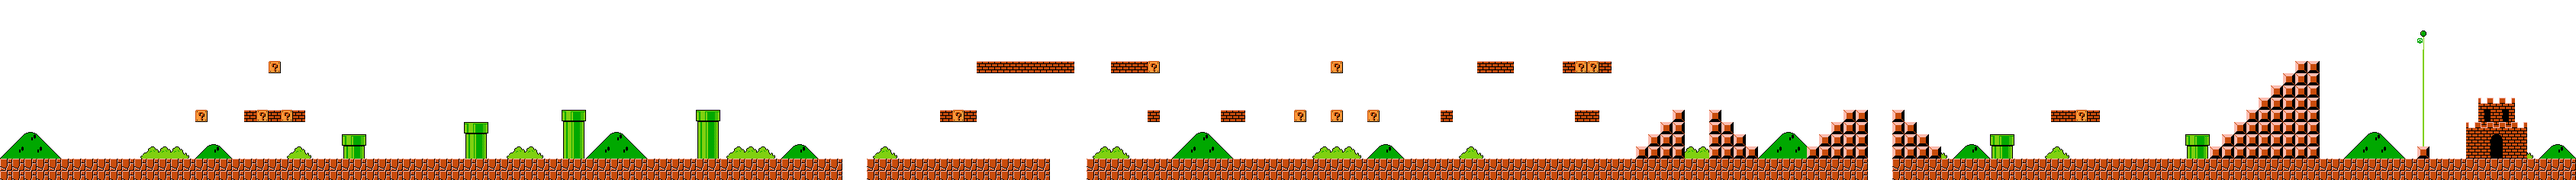
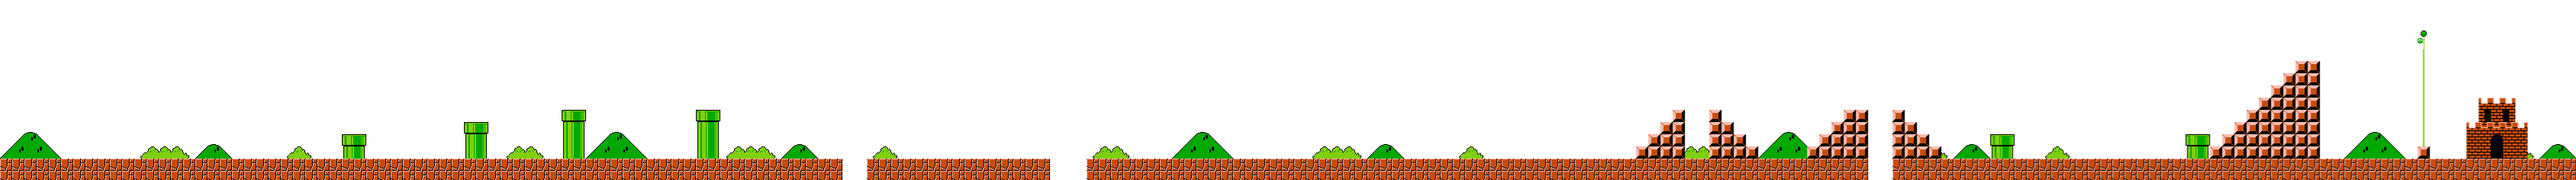
점프로 벽돌 블럭 없애기

diff --git a/winapi project/character.cpp b/winapi project/character.cpp
@@ -51,11 +51,11 @@ void character_move(Character* character, Map* map, int dx, int dy) {
     int new_x = character->x + dx;
     float new_y = character->y + dy;
 
-    if (!map_check_collision(map, new_x, character->y, character->width, character->height - 2)) {
+    if (!map_check_collision(map, new_x, character->y, character->width, character->height - 2, NULL)) {
         character->x = new_x;
     }
 
-    if (!map_check_collision(map, character->x, new_y, character->width, character->height - 2)) {
+    if (!map_check_collision(map, character->x, new_y, character->width, character->height - 2, NULL)) {
         character->y = new_y;
     }
     else {
@@ -292,7 +292,6 @@ void character_handle_input(Character* character, WPARAM wParam, int key_down) {
         }
     }
 }
-
 void character_update(Character* character, Map* map, float dt) {
     int dx = character->move_direction * (character->is_flying ? 1 : 2);
     character_move(character, map, dx, 0);
@@ -313,26 +312,36 @@ void character_update(Character* character, Map* map, float dt) {
         else {
             character->jump_velocity += character->gravity * 0.05f * dt;
         }
-        if (!map_check_collision(map, character->x, new_y, character->width, character->height)) {
+        if (!map_check_collision(map, character->x, new_y, character->width, character->height, NULL)) {
             character->y = new_y;
         }
     }
     else if (character->is_jumping) {
         float new_y = character->y + character->jump_velocity * dt;
-        character->jump_velocity += character->gravity * dt;
-        if (!map_check_collision(map, character->x, new_y, character->width, character->height)) {
-            character->y = new_y;
-        }
-        else {
+        int collision_index = -1;
+        if (map_check_collision(map, character->x, new_y, character->width, character->height, &collision_index)) {
+            if (collision_index != -1 && character->jump_velocity < 0) { // Check if the collision is with the bottom of a brick
+                RECT* brick = &map->brick_collision_rects[collision_index];
+                if (character->y >= brick->bottom) {
+                    // Remove the brick collision
+                    for (int i = collision_index; i < map->num_brick_collisions - 1; ++i) {
+                        map->brick_collision_rects[i] = map->brick_collision_rects[i + 1];
+                    }
+                    map->num_brick_collisions--;
+                }
+            }
             character->is_jumping = false;
             character->jump_velocity = 0;
             character->state = IDLE;
         }
+        else {
+            character->y = new_y;
+            character->jump_velocity += character->gravity * dt;
+        }
     }
     else {
-
         float new_y = character->y + character->gravity * dt;
-        if (!map_check_collision(map, character->x, new_y, character->width, character->height)) {
+        if (!map_check_collision(map, character->x, new_y, character->width, character->height, NULL)) {
             character->y = new_y;
             character->is_jumping = true;
             character->jump_velocity = 0;
@@ -360,3 +369,4 @@ void character_update(Character* character, Map* map, float dt) {
         character->current_frame = 0;
     }
 }
+

diff --git a/winapi project/main.cpp b/winapi project/main.cpp
@@ -6,7 +6,6 @@
 #include <iostream>
 #pragma comment(linker,"/entry:WinMainCRTStartup /subsystem:console") 
 
-
 LRESULT CALLBACK WndProc(HWND, UINT, WPARAM, LPARAM);
 Game game;
 #define marginX 16
@@ -74,7 +73,7 @@ LRESULT CALLBACK WndProc(HWND hWnd, UINT message, WPARAM wParam, LPARAM lParam) 
         break;
     }
     case WM_KEYDOWN:
-        game_handle_input(&game, wParam,lParam, 1);
+        game_handle_input(&game, wParam, lParam, 1);
         break;
     case WM_KEYUP:
         game_handle_input(&game, wParam, lParam, 0);
